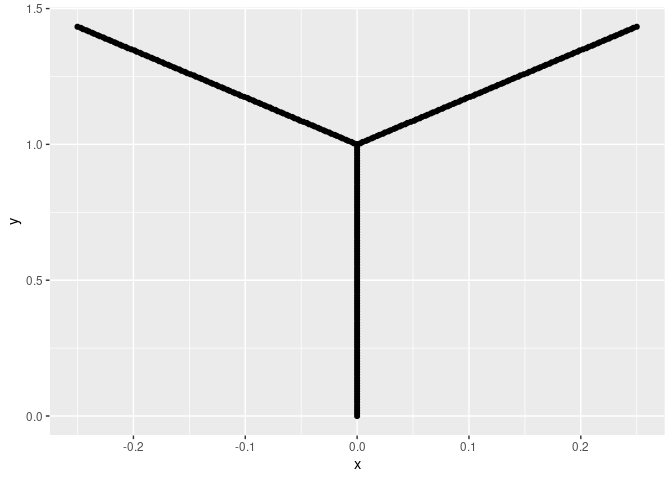
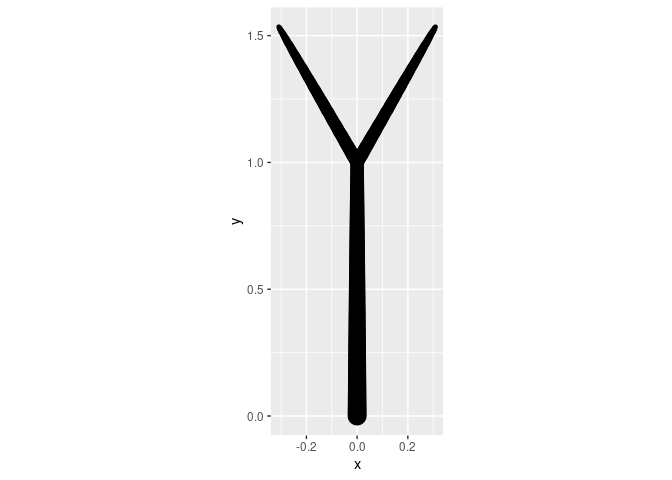
Working on deterministic tree function. Most input data organized. Need to figure out how to store angle data so they can be readily called when rotating branches.

diff --git a/basic_deterministic_trees.md b/basic_deterministic_trees.md
@@ -8,18 +8,21 @@ library(tidyverse)
 Early attempts at making, storing, and drawing line segments.
 
 ``` r
+gr <- 1.61803
+
 X0 <- rep(0, 100)
 Y0 <- seq(0, 1, length.out = 100)
 
-theta0 <- 0
-b0 <- tibble(x = round(X0*cos(theta0) - Y0*sin(theta0), 3),
-             y = round(X0*sin(theta0) + Y0*cos(theta0), 3),
-             branch = rep(0,100),
-             thickness = rep(1/sqrt(2), 100))
-tree <- b0
+theta_0 <- 0
+b_0 <- tibble(x = round(X0*cos(theta_0) - Y0*sin(theta_0), 3),
+              y = round(X0*sin(theta_0) + Y0*cos(theta_0), 3),
+              branch = rep(0,100),
+              thickness = seq(1, 1/gr, length.out = 100))
+tree <- b_0
 
 ggplot(tree) + 
-  geom_point(aes(x, y))
+  geom_point(aes(x, y, size = thickness)) +
+  coord_fixed() + theme(legend.position="none")
 ```
 
 ![](basic_deterministic_trees_files/figure-gfm/unnamed-chunk-2-1.png)<!-- -->
@@ -27,29 +30,71 @@ ggplot(tree) +
 Try to rotate
 
 ``` r
-tree <- b0
-
 X1 <- rep(0, 100)
-Y1 <- seq(0, 0.5, length.out = 100)
+Y1 <- seq(0, 1/gr, length.out = 100)
 
-theta1a = theta0 + pi/6
-b1a <- tibble(x = round(X1*cos(theta1a) - Y1*sin(theta1a) + b0$x[100], 3),
-              y = round(X1*sin(theta1a) + Y1*cos(theta1a) + b0$y[100], 3),
-              branch = rep("1a", 100),
-              thickness = rep(1/sqrt(2.5), 100))
+theta_01a = theta_0 + pi/6
+b_01a <- tibble(x = round(X1*cos(theta_01a) - Y1*sin(theta_01a) + b_0$x[100], 3),
+                y = round(X1*sin(theta_01a) + Y1*cos(theta_01a) + b_0$y[100], 3),
+                branch = rep("1a", 100),
+                thickness = seq(1/gr,1/gr^2, length.out = 100))
 
-tree <- rbind(tree,b1a)
+tree <- rbind(tree,b_01a)
 
-theta1b = theta0 - pi/6
-b1b <- tibble(x = round(X1*cos(theta1b) - Y1*sin(theta1b) + b0$x[100], 3),
-              y = round(X1*sin(theta1b) + Y1*cos(theta1b) + b0$y[100], 3),
-              branch = rep("1b", 100),
-              thickness = rep(1/sqrt(2.5), 100))
+theta_01b = theta_0 - pi/6
+b_01b <- tibble(x = round(X1*cos(theta_01b) - Y1*sin(theta_01b) + b_0$x[100], 3),
+                y = round(X1*sin(theta_01b) + Y1*cos(theta_01b) + b_0$y[100], 3),
+                branch = rep("1b", 100),
+                thickness = seq(1/gr,1/gr^2, length.out = 100))
 
-tree <- rbind(tree,b1b)
+tree <- rbind(tree,b_01b)
 
 ggplot(tree) + 
-  geom_point(aes(x, y))
+  geom_point(aes(x, y, size = thickness)) + 
+  coord_fixed() + theme(legend.position="none")
 ```
 
 ![](basic_deterministic_trees_files/figure-gfm/unnamed-chunk-3-1.png)<!-- -->
+
+``` r
+X2 <- rep(0, 100)
+Y2 <- seq(0, 1/gr^2, length.out = 100)
+
+theta_01a2a = theta_01a + pi/6/gr
+b_01a2a <- tibble(x = round(X2*cos(theta_01a2a) - Y2*sin(theta_01a2a) + b_01a$x[100], 3),
+                  y = round(X2*sin(theta_01a2a) + Y2*cos(theta_01a2a) + b_01a$y[100], 3),
+                  branch = rep("2a", 100),
+                  thickness = seq(1/gr^2,1/gr^3, length.out = 100))
+
+tree <- rbind(tree,b_01a2a)
+
+theta_01a2b = theta_01a - pi/6/gr
+b_01a2b <- tibble(x = round(X2*cos(theta_01a2b) - Y2*sin(theta_01a2b) + b_01a$x[100], 3),
+                  y = round(X2*sin(theta_01a2b) + Y2*cos(theta_01a2b) + b_01a$y[100], 3),
+                  branch = rep("2b", 100),
+                  thickness = seq(1/gr^2,1/gr^3, length.out = 100))
+
+tree <- rbind(tree,b_01a2b)
+
+theta_01b2c = theta_01b + pi/6/gr
+b_01b2c <- tibble(x = round(X2*cos(theta_01b2c) - Y2*sin(theta_01b2c) + b_01b$x[100], 3),
+                  y = round(X2*sin(theta_01b2c) + Y2*cos(theta_01b2c) + b_01b$y[100], 3),
+                  branch = rep("2c", 100),
+                  thickness = seq(1/gr^2,1/gr^3, length.out = 100))
+
+tree <- rbind(tree,b_01b2c)
+
+theta_01b2d = theta_01b - pi/6/gr
+b_01b2d <- tibble(x = round(X2*cos(theta_01b2d) - Y2*sin(theta_01b2d) + b_01b$x[100], 3),
+                  y = round(X2*sin(theta_01b2d) + Y2*cos(theta_01b2d) + b_01b$y[100], 3),
+                  branch = rep("2d", 100),
+                  thickness = seq(1/gr^2,1/gr^3, length.out = 100))
+?seq
+tree <- rbind(tree,b_01b2d)
+
+ggplot(tree) + 
+  geom_point(aes(x, y, size = thickness)) + 
+  coord_fixed() + theme(legend.position="none")
+```
+
+![](basic_deterministic_trees_files/figure-gfm/unnamed-chunk-4-1.png)<!-- -->

diff --git a/TODO.md b/TODO.md
@@ -3,7 +3,7 @@ TODO
 
 ## Preliminary Work
 
-  - \[ \] Find way to draw customizable line segments in R.
+  - \[x\] Find way to draw customizable line segments in R.
   - \[ \] Write recursive function that systematically creates and
     connects lines segments.
   - \[ \] Explore functions until able to consistently and quickly
